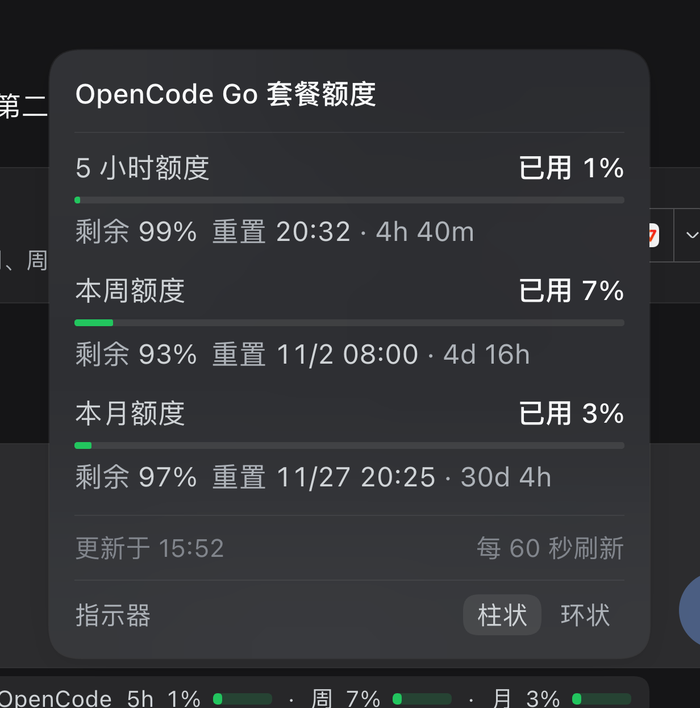
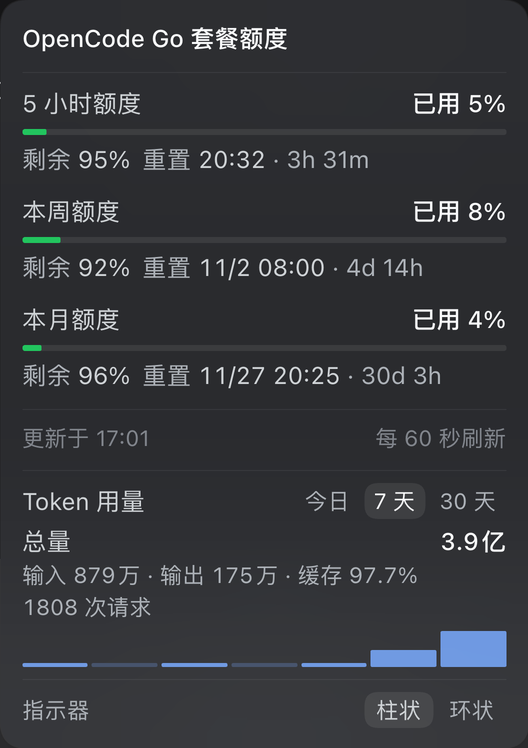
docs: screenshots-first README + real captures for all sources (1.2.0)
- README 重排：效果图放到最前面（徽标 / 面板 / 环状指示器），新增 DeepSeek 截图
- 截图取自真实 DSH 界面：GLM、OpenCode Go、DeepSeek 三家的最新面板
  （含 Token 用量统计与 DeepSeek 余额/消耗）
- 合并「安装方式」与「安装与更新」为一节，补钉版本安装示例
- 版本 1.1.0 -> 1.2.0

diff --git a/README.md b/README.md
@@ -1,43 +1,62 @@
 # dsh-quota
 
-在 DeepSeek Harness 输入框下方的状态栏（`conversation.composer.dock`）显示**当前模型所属厂商的套餐额度**，并随模型切换自动切换。
+在 DeepSeek Harness 输入框下方的状态栏（`conversation.composer.dock`）显示**当前模型所属厂商的额度与消耗**，并随模型切换自动切换。
+
+支持：**智谱 GLM** · **OpenCode Go** · **Kimi For Coding** · **小米 Token 套餐** · **DeepSeek 官方账户**
+
+## 效果图
+
+> 下列截图均取自**真实 DSH 界面**（深色主题、本机 GUI 无头截图），额度与余额为截取时刻的真实数据。
+
+### 状态栏徽标
+
+徽标贴在输入框右下角，跟随当前模型自动切换，点一下弹出明细：
+
+<img src="docs/images/glm-pill.png" width="640" alt="GLM 状态栏徽标"><br>
+<img src="docs/images/opencode-go-pill.png" width="640" alt="OpenCode Go 状态栏徽标"><br>
+<img src="docs/images/deepseek-pill.png" width="640" alt="DeepSeek 状态栏徽标（余额 + 今日消耗）">
+
+### 明细面板
+
+| GLM（智谱） | OpenCode Go | DeepSeek 官方 |
+|---|---|---|
+| <img src="docs/images/glm-panel.png" width="220" alt="GLM 明细面板"> | <img src="docs/images/opencode-go-panel.png" width="220" alt="OpenCode Go 明细面板"> | <img src="docs/images/deepseek-panel.png" width="220" alt="DeepSeek 余额与消耗面板"> |
+
+面板里包含：套餐窗口（5 小时 / 周 / 月）、剩余与重置倒计时、工具额度明细、**Token 用量统计（今日 / 7 天 / 30 天）**、DeepSeek 的账户余额与估算费用、指示器形态切换。
+
+### 环状指示器
+
+面板底部可切换柱状 / 环状两种指示器：
+
+| GLM | OpenCode Go |
+|---|---|
+| <img src="docs/images/glm-ring.png" width="430" alt="GLM 环状指示器"> | <img src="docs/images/opencode-go-ring.png" width="430" alt="OpenCode Go 环状指示器"> |
+
+## 徽标示意
 
 ```
-GLM 5h 21% ▰ · 周 6% ▰                 ← 当前模型在智谱（zai-coding-cn）
-OpenCode 5h 8% ▰ · 周 3% ▰ · 月 1% ▰         ← 当前模型在 OpenCode Go（opencode-go，三窗口用短标签）
-Kimi 5h 24% ▰ · 周 42% ▰               ← 当前模型在 Kimi For Coding（kimi-coding）
-小米 套餐 12% ▰ · 月 17% ▰             ← 当前模型在小米 Token 套餐（xiaomi-token-plan-*）
-DeepSeek 余额 ¥85.59 · 今日 ¥1.02      ← 当前模型在 DeepSeek 官方（deepseek-account）
-（其它厂商，例如官方 DeepSeek 账号，徽标不占位）
+GLM 5h 21% ▰ · 周 6% ▰                     ← 智谱（zai-coding-cn）
+OpenCode 5h 8% ▰ · 周 3% ▰ · 月 1% ▰       ← OpenCode Go（opencode-go）
+Kimi 5h 24% ▰ · 周 42% ▰                   ← Kimi For Coding（kimi-coding）
+小米 套餐 12% ▰ · 月 17% ▰                 ← 小米 Token 套餐（xiaomi-token-plan-*）
+DeepSeek 余额 ¥85.31 · 今日 ¥1.26          ← DeepSeek 官方（deepseek-account）
+（其它厂商，例如未配置额度的路由，徽标不占位）
 ```
 
-点击徽标弹出明细面板（样式对齐官方「上下文已用」面板，264px 宽紧凑布局）：
+## 自动切换逻辑
 
-```
-GLM 套餐额度                    套餐 最高
-──────────────────────────────────────
-5 小时额度                     已用 21%
-▓▓▓▓░░░░░░░░░░░░░░░░░░
-剩余 79%         重置 17:12 · 3h 12m
+宿主侧路由 `GET /quota/active` 读取 DSH 的「当前默认模型选择」（`agentDefaultModel` 服务，每次切换模型都会更新），把 provider 映射到额度来源：
 
-本周额度                         已用 6%
-▓░░░░░░░░░░░░░░░░░░░░░
-剩余 94%       重置 11/4 11:12 · 6d 21h
+| provider | 来源 | 数据接口 |
+|---|---|---|
+| `zai-coding-cn` / `zai` | 智谱 GLM | `GET https://open.bigmodel.cn/api/monitor/usage/quota/limit` |
+| `opencode-go` / `opencode` | OpenCode Go | `GET https://opencode.ai/zen/go/v1/usage` |
+| `kimi-coding` | Kimi For Coding | `GET https://api.kimi.com/coding/v1/usages` |
+| `xiaomi-token-plan-cn` / `-ams` / `-sgp` / `xiaomi` | 小米 Token 套餐 | `GET https://platform.xiaomimimo.com/api/v1/tokenPlan/usage` |
+| `deepseek-account` / `deepseek-api-key` / `deepseek` | DeepSeek 官方 | DSH 账号服务（平台钱包）或 `GET https://api.deepseek.com/user/balance` |
+| 其它（如官方 DeepSeek 账号） | 无 | 徽标自动隐藏 |
 
-本月工具额度                  696 / 4000
-▓▓▓░░░░░░░░░░░░░░░░░░░
-已用 17% · 剩余 3304 · 重置 11/5 11:12 · 7d 21h
-  联网搜索 676  网页阅读 20  文档阅读 0
-──────────────────────────────────────
-更新于 14:12                    每 60 秒刷新
-Token 用量              今日  7天  30天
-总量                          3.4亿
-输入 586万 · 输出 78万 · 缓存 97.8%
-1711 次请求
-▁▁▁▂▃▅█
-──────────────────────────────────────
-指示器                        柱状  环状
-```
+切换模型后约 1 秒内跟着切换：客户端每秒查一次 `/quota/active`（宿主只读内存，开销可忽略），窗口重新获得焦点时立即查一次，另外订阅 `settings/document-updated` 事件做即时触发；额度本身每 60 秒刷新一次。
 
 ## Token 用量统计
 
@@ -49,7 +68,7 @@ Token 用量              今日  7天  30天
 
 数据来自**本机会话日志**（`$DSH_HOME/sessions/**/session*.jsonl.zstd`，逐帧解压后按事件时间归到本地自然日），完全本地计算：不联网、不上传、不落盘新文件。单次扫描 30 个会话约 60~250ms，结果按区间缓存 60 秒。
 
-## DeepSeek 官方监控（余额 + 消耗）
+## DeepSeek 官方监控
 
 DeepSeek 官方只开放了一个余额接口（`GET https://api.deepseek.com/user/balance`），没有用量接口，所以这里把**余额**和**消耗**分开取：
 
@@ -88,53 +107,6 @@ Token 用量        今日  7天  30天
 - 金额是**估算**：按每条请求的 token × 当时时段单价累加；法定节假日按工作日计算，金额会略微偏高
 - 缓存命中率沿用 DSH 口径：`cacheReadTokens / (totalTokens - outputTokens)`
 
-## 效果图
-
-截图取自**真实的 DSH 界面**（本机 GUI，深色主题，无头 Chrome 连接后会截图；额度数字是截取那一刻的真实值）。
-
-### GLM（智谱）
-
-状态栏徽标（柱状条）：
-
-<img src="docs/images/glm-pill.png" width="640" alt="GLM 状态栏徽标">
-
-点击后的明细面板：
-
-<img src="docs/images/glm-panel.png" width="330" alt="GLM 明细面板">
-
-### OpenCode Go
-
-状态栏徽标：
-
-<img src="docs/images/opencode-go-pill.png" width="640" alt="OpenCode Go 状态栏徽标">
-
-明细面板：
-
-<img src="docs/images/opencode-go-panel.png" width="330" alt="OpenCode Go 明细面板">
-
-### 环状指示器
-
-面板底部「指示器」可切换柱状 / 环状：
-
-| GLM | OpenCode Go |
-|---|---|
-| <img src="docs/images/glm-ring.png" width="440" alt="GLM 环状指示器"> | <img src="docs/images/opencode-go-ring.png" width="440" alt="OpenCode Go 环状指示器"> |
-
-## 自动切换逻辑
-
-宿主侧路由 `GET /quota/active` 读取 DSH 的「当前默认模型选择」（`agentDefaultModel` 服务，每次切换模型都会更新），把 provider 映射到额度来源：
-
-| provider | 来源 | 数据接口 |
-|---|---|---|
-| `zai-coding-cn` / `zai` | 智谱 GLM | `GET https://open.bigmodel.cn/api/monitor/usage/quota/limit` |
-| `opencode-go` / `opencode` | OpenCode Go | `GET https://opencode.ai/zen/go/v1/usage` |
-| `kimi-coding` | Kimi For Coding | `GET https://api.kimi.com/coding/v1/usages` |
-| `xiaomi-token-plan-cn` / `-ams` / `-sgp` / `xiaomi` | 小米 Token 套餐 | `GET https://platform.xiaomimimo.com/api/v1/tokenPlan/usage` |
-| `deepseek-account` / `deepseek-api-key` / `deepseek` | DeepSeek 官方 | DSH 账号服务（平台钱包）或 `GET https://api.deepseek.com/user/balance` |
-| 其它（如官方 DeepSeek 账号） | 无 | 徽标自动隐藏 |
-
-切换模型后约 1 秒内跟着切换：客户端每秒查一次 `/quota/active`（宿主只读内存，开销可忽略），窗口重新获得焦点时立即查一次，另外订阅 `settings/document-updated` 事件做即时触发；额度本身每 60 秒刷新一次。
-
 ## 数据与语义
 
 - 两个接口返回的都是**已用百分比**。智谱的 `TIME_LIMIT` 同时给 `696/4000` 与 `percentage: 17`，可证 `percentage` = 已用；OpenCode 的 `rolling/weekly/monthly` 同理。面板里同时给「剩余」。
@@ -146,7 +118,26 @@ Token 用量        今日  7天  30天
 - 徽标内文字统一 12px / 同色 / 400 字重（与官方统计徽标同规格），进度条放在数字后面：常态绿、≥70% 琥珀、≥90% 红，轨道同色 18% 浅染。
 - 徽标里窗口名用短标签（`5h` / `周` / `月`，面板里仍是完整标题），来源配置见 `client.js` 的 `SOURCES[*].shortLabels`。
 
-## 安装方式
+## 安装与更新（从 GitHub）
+
+插件在 DSH profile 里作为普通依赖安装，运行时从 `$DSH_HOME/profiles/<profile>/node_modules` 加载：
+
+```bash
+# 安装（跟踪 main 最新提交）
+dsh plugin --profile desktop add github:shy3130/dsh-quota
+
+# 更新已安装的版本
+dsh plugin --profile desktop update @local/dsh-quota
+
+# 钉住某个发布版本（推荐生产环境）
+dsh plugin --profile desktop add github:shy3130/dsh-quota#v1.2.0
+```
+
+- 安装/更新后要**完全退出并重开 DSH**：宿主插件在启动时加载，只刷新页面不够
+- 仅 `client.js` 的改动刷新页面即可，但版本更新通常包含宿主改动，按上面的步骤走
+- `pnpm-lock.yaml` 会把 GitHub 依赖钉到具体提交（`codeload.github.com/.../tar.gz/<sha>`），所以“更新”就是重新解析目标 ref 的最新提交
+- 每个版本见 [Releases](https://github.com/shy3130/dsh-quota/releases)，附带可直接分发的源码包
+- 开发调试时可切回本地软链：`dsh plugin --profile desktop add link:/path/to/dsh-quota`（改代码重启即生效）
 
 ```bash
 git clone https://github.com/shy3130/dsh-quota.git ~/Project/dsh-quota
@@ -231,22 +222,6 @@ git clone https://github.com/shy3130/dsh-quota.git ~/Project/dsh-quota
 | DeepSeek 官方 | 通常不用（DSH 已登录 DeepSeek 账号即可）；否则 `DEEPSEEK_API_KEY` | 账号模式走 DSH 的 `deepseekAccount` 服务；API Key 模式走官方 `GET /user/balance` |
 
 凭据可以放在环境变量里，也可以经 DSH 的凭据服务按上面的名字保存（插件只用引用名，不落盘）。
-
-## 安装与更新（从 GitHub）
-
-插件在 DSH profile 里作为普通依赖安装，宿主本地仓库不参与运行时：
-
-```bash
-# 安装 / 更新到 main 最新提交
-dsh plugin --profile desktop add github:shy3130/dsh-quota
-# 或已装过的常规更新
-dsh plugin --profile desktop update @local/dsh-quota
-```
-
-- 安装/更新后要**完全退出并重开 DSH**（宿主插件在启动时加载；只刷新页面不够）
-- 客户端改动（`client.js`）刷新页面即可，但版本更新涉及宿主时仍需重启
-- `pnpm-lock.yaml` 会把 GitHub 依赖钉到某个提交（`codeload.github.com/.../tar.gz/<sha>`），所以「更新」本质是重新解析 main 的最新提交
-- 想开发调试时再切回本地软链：`dsh plugin --profile desktop add link:/path/to/dsh-quota`（改代码重启即生效）
 
 ## 卸载
 
